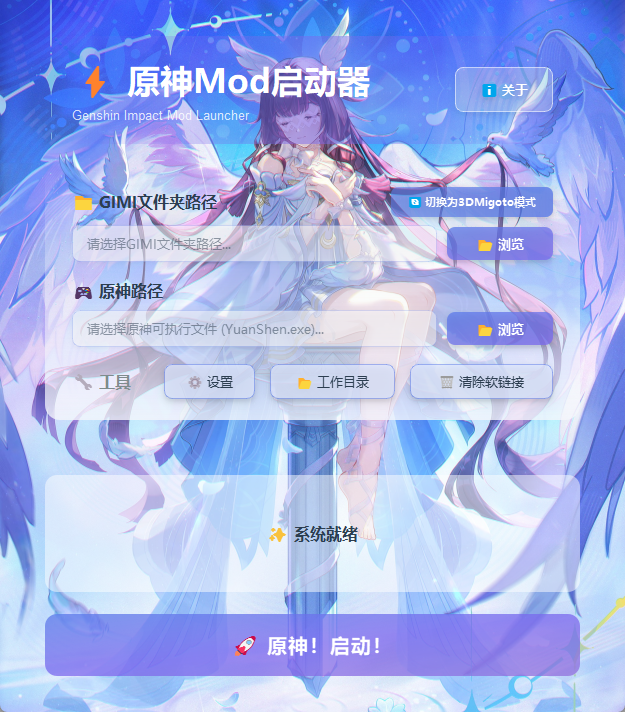
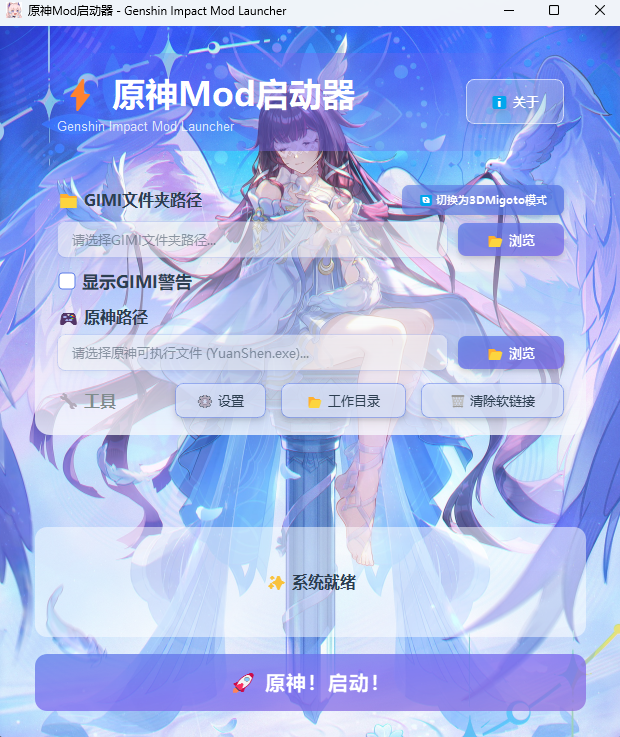
V2.1.2

diff --git a/README.md b/README.md
@@ -8,7 +8,7 @@
   <img src="icon.png" alt="GIML Icon" width="200">
   
   <p>
-    <img src="https://img.shields.io/badge/version-2.1.1-blue.svg" alt="Version">
+    <img src="https://img.shields.io/badge/version-2.1.2-blue.svg" alt="Version">
     <img src="https://img.shields.io/badge/platform-Windows-lightgrey.svg" alt="Platform">
     <img src="https://img.shields.io/badge/license-Proprietary-red.svg" alt="License">
     <a href="https://github.com/CHN-HelloWorld/GIML/releases/latest"><img src="https://img.shields.io/github/downloads/CHN-HelloWorld/GIML/total" alt="Downloads"></a>
@@ -108,6 +108,10 @@
 - **防报错方案**：截流法 / 隐匿法 / 双生法（支持多选，默认全选）
 - **截流法拦截模式**：基础模式 / 增强模式（勾选截流法后可选）
 - **手动启动游戏**：仅启动 Mod 加载器，在 10 秒内手动启动游戏
+- **延迟启动游戏时间**：设置自动启动游戏的延迟时间（毫秒），可根据电脑性能调整，范围 1-7000ms，默认 1000ms（1秒）
+
+**主界面选项**：
+- **显示 GIMI 警告**：勾选后会在日志中显示 GIMI 相关的警告信息，方便排查 Mod 加载问题（默认不显示）
 
 **帧率与画面设置**：目标帧率、窗口模式、显示器选择、分辨率、HDR 等
 
@@ -203,15 +207,27 @@
 
 使用启动器的自动修复功能即可。
 
+### Q: 启动时出现 Windows Defender 白名单申请对话框？
+
+这是正常现象。启动器的防报错引擎存在敏感行为（如进程注入等），可能被 Windows Defender 误报为病毒。建议同意将程序目录添加到 Windows 安全中心白名单，以确保启动器正常运行。
+
+### Q: 如何调整游戏启动等待时间？
+
+如果您的电脑启动速度较慢，或者启动过程中遇到时序问题，可以在"设置"→"基础"中调整"延迟启动游戏时间"。默认为 1000 毫秒（1秒），范围 1-7000 毫秒，可根据实际情况增加延迟时间。
+
+### Q: 如何查看 GIMI 警告日志？
+
+如果您在使用 Mod 时遇到加载问题，可以在主界面勾选"显示 GIMI 警告"选项，以便在日志中查看详细的 GIMI 警告信息，帮助排查 Mod 加载相关问题。默认情况下此选项是关闭的。
+
 ## 👨💻 项目信息
 
 | 项目 | 信息 |
 |---|---|
 | 项目名称 | GIML (Genshin Impact Mod Launcher) |
-| 版本 | 2.1.1 |
+| 版本 | 2.1.2 |
 | 作者 | Aether |
 | 许可证 | 专有软件许可证 (Proprietary License) |
-| 更新时间 | 2026 年 1 月 14 日 |
+| 更新时间 | 2026 年 1 月 15 日 |
 
 ## 🤝 反馈与支持
 
